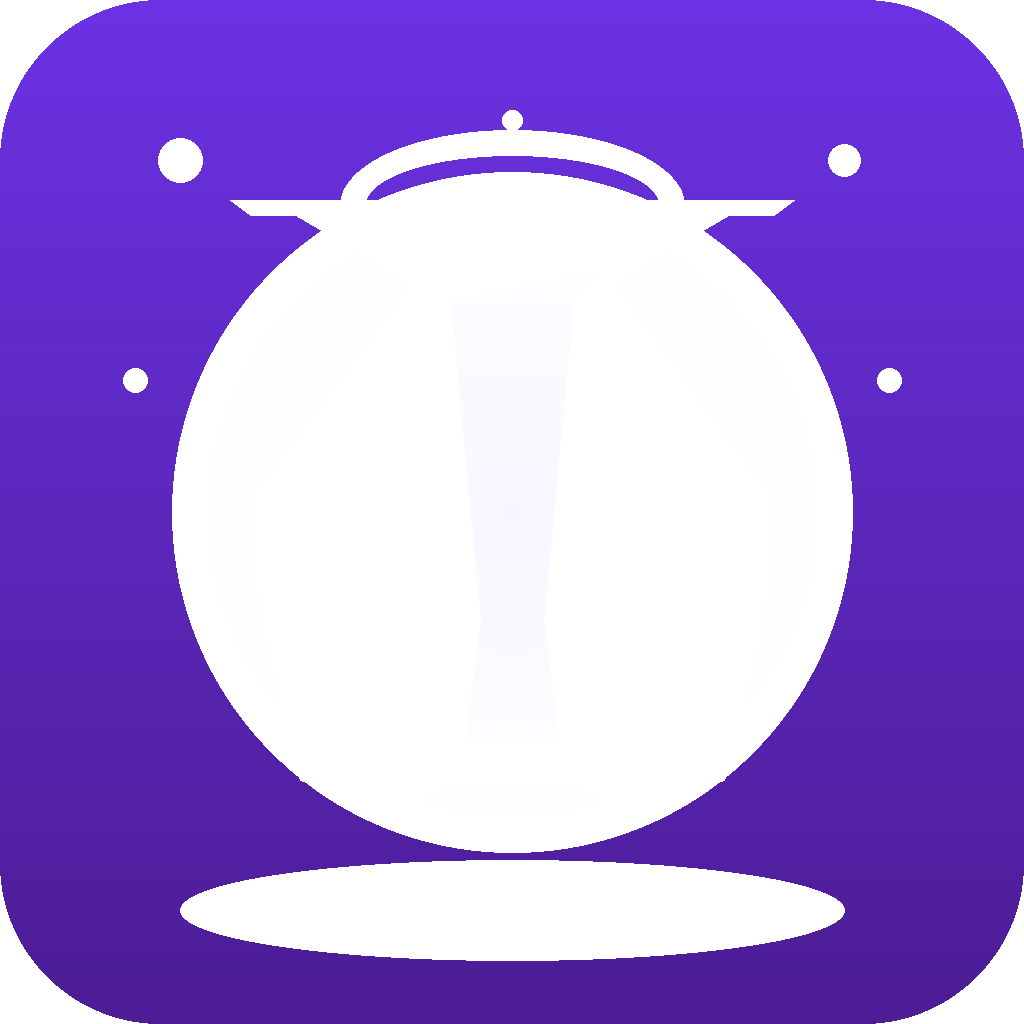
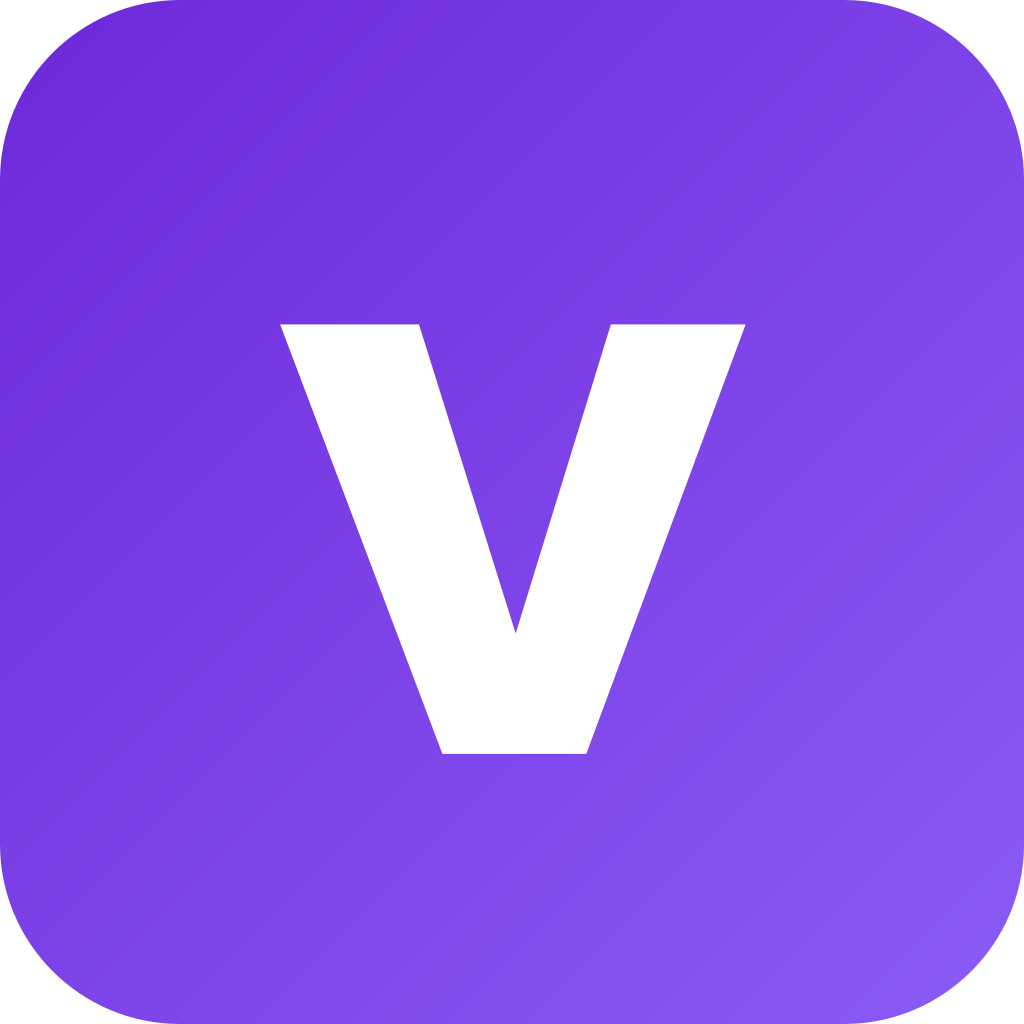
Fix historique stock + icône V
Backend :
- stockRoutes POST /add : crée InventoryHistory (manquant)
- stockRoutes POST /remove : crée InventoryHistory

Icon :
- Nouvel icône : fond violet dégradé + V blanc simple et gras
- Nouvel adaptive-icon : V blanc sur fond transparent (#8A4DFF)

diff --git a/vocoserver/src/routes/stockRoutes.ts b/vocoserver/src/routes/stockRoutes.ts
@@ -3,6 +3,7 @@ import { Router } from "express";
 import authMiddleware from "../middleware/authMiddleware";
 import requirePermission from "../middleware/permissionMiddleware";
 import Product from "../models/Product";
+import InventoryHistory from "../models/InventoryHistory";
 import { PushNotificationService } from "../services/pushNotificationService";
 import { isValidObjectId } from "../utils/helpers";
 
@@ -99,6 +100,13 @@ new Date(a).getTime() - new Date(b).getTime()
 
 await product.save();
 
+await InventoryHistory.create({
+storeId,
+productId: product._id,
+type: "addition",
+quantity: q,
+});
+
 return res.json({
 message: "Stock ajouté avec succès",
 newQuantity: product.quantity,
@@ -144,6 +152,13 @@ if (!product) return res.status(404).json({ error: "Produit introuvable" });
 
 product.quantity = Math.max(0, Number(product.quantity || 0) - q);
 await product.save();
+
+await InventoryHistory.create({
+storeId,
+productId: product._id,
+type: "withdrawal",
+quantity: q,
+});
 
 // 🔔 Alerte stock faible → push notification
 const alertLevel = Number(product.alertLevel || 0);
